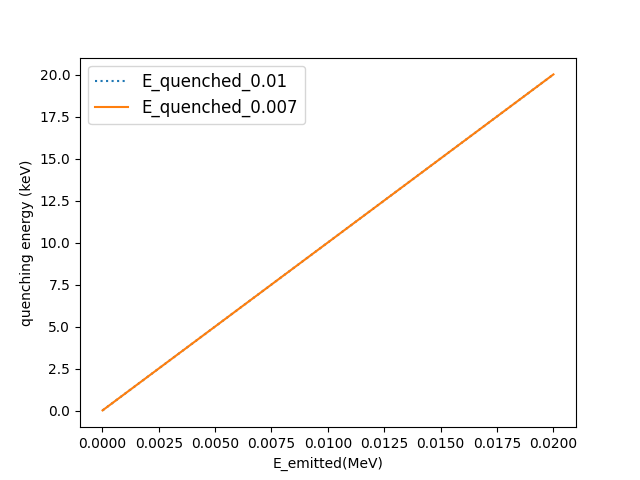
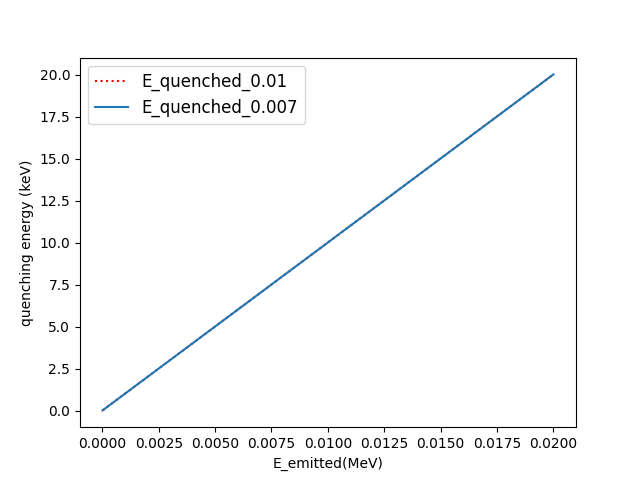
E_quench

diff --git a/MCTDCRcode/TDCR_model_lib.py b/MCTDCRcode/TDCR_model_lib.py
@@ -316,7 +316,7 @@ for i in np.linspace(1e-5,2e-2,1000):
     #s3.append(E_quench_e(i,kB=0.014)*1e3)
 
 x = np.linspace(1e-5,2e-2,1000)
-plt.plot(x,s2,label='E_quenched_0.01',ls=':')
+plt.plot(x,s2,label='E_quenched_0.01',ls=':',color='red')
 plt.plot(x,s1,label='E_quenched_0.007')
 #plt.plot(x,s3,label='E_quenched_0.014')
 #plt.xscale('log')
